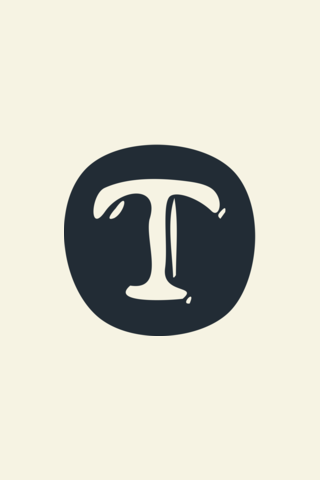
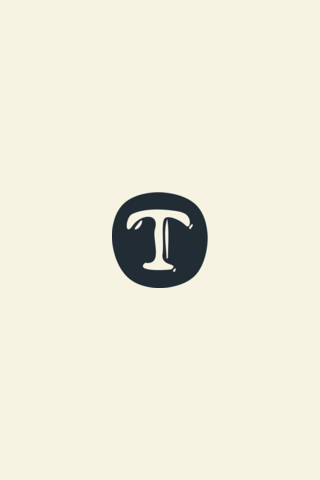
v0.1.6

Changed region(s): [[0.1875, 0.2812, 0.8125, 0.7188]]

diff --git a/res/createimages.py b/res/createimages.py
@@ -37,8 +37,8 @@ def replaceScreen (the_dir) :
         width, height = image_file.size
         size = '%dx%d' % image_file.size
         icon_size = '%dx%d' % (
-            int(width*0.6),
-            int(height*0.6),
+            int(width*0.3),
+            int(height*0.3),
             )
         filename = filename.replace('drawable', 'tws')
         filename = filename.replace('Default', 'tws')
@@ -58,7 +58,7 @@ print 'SVG file : %s' % svg_file
 
 # replaceIcons(icon_android)
 # replaceIcons(icon_ios)
-# replaceScreen(screen_android)
-# replaceScreen(screen_ios)
+replaceScreen(screen_android)
+replaceScreen(screen_ios)
 
 print 'If nothing happened make sure you have an svg in the same directory, and uncomment function calls above'
